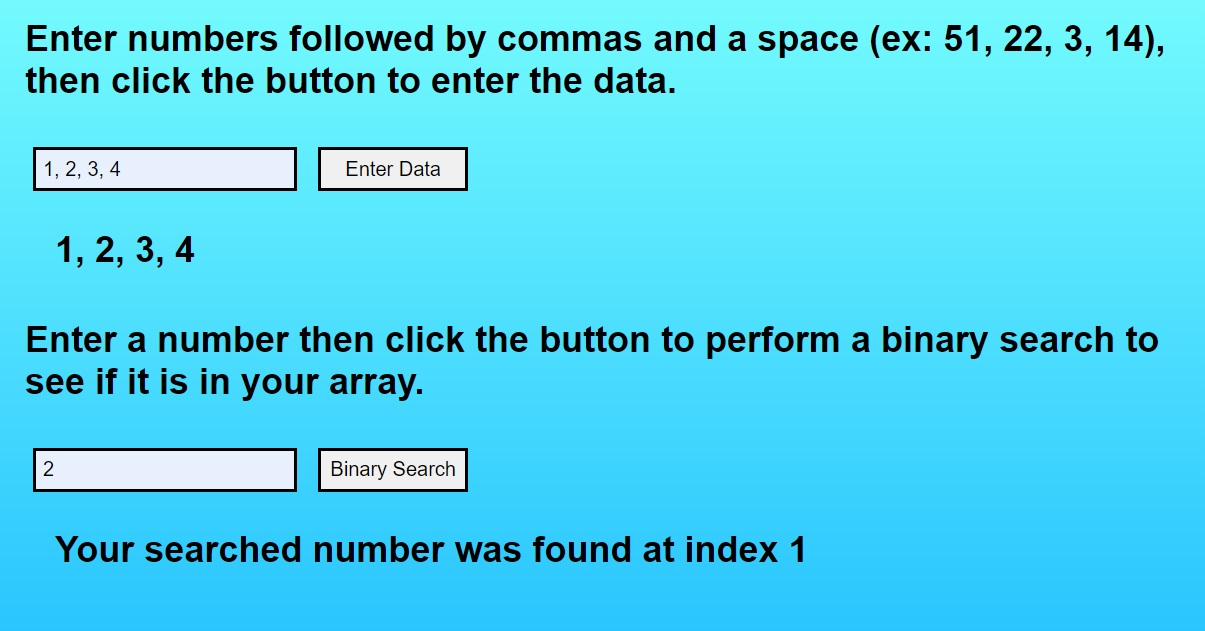
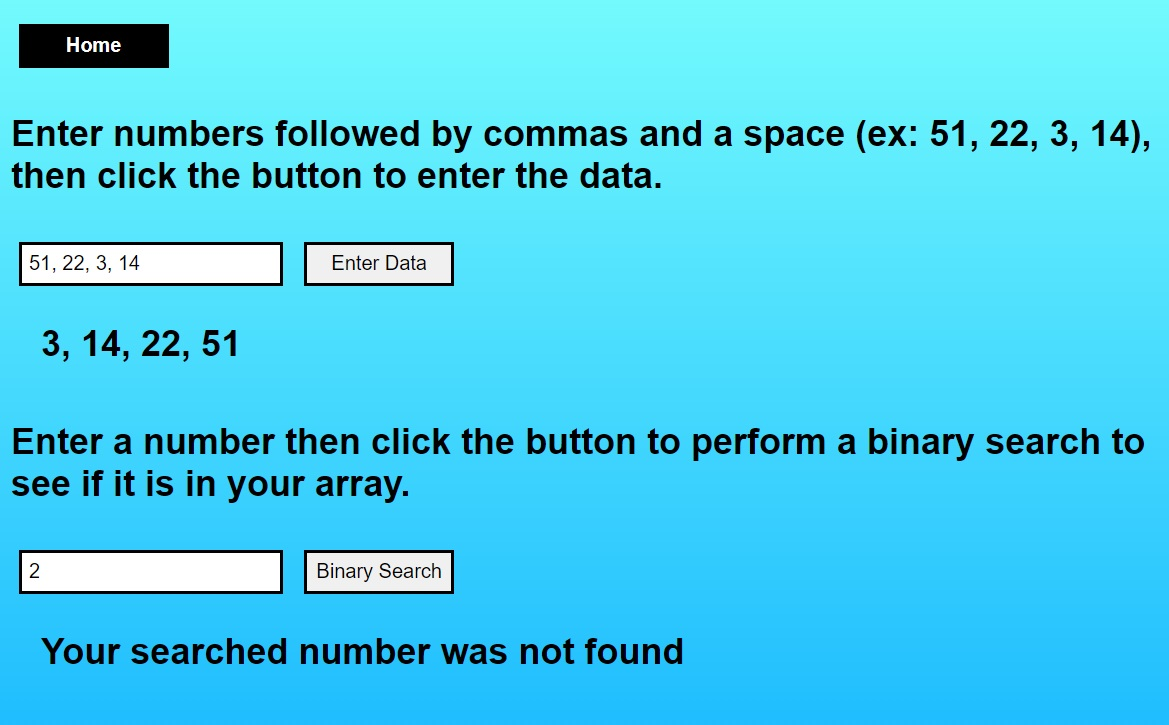
added home button to each sub-page and updated readme to reflect changes

Changed region(s): [[0.0, 0.4517, 0.9855, 0.9334], [0.0, 0.0301, 0.9855, 0.4216]]

diff --git a/sortingPractice/sortIndex.html b/sortingPractice/sortIndex.html
@@ -8,6 +8,8 @@
     <link rel="stylesheet" type="text/css" href="style.css">
 </head>
 <body>
+    <button id="homeButton"><a href="../index.html">Home</a></button>
+
     <h1>Enter numbers followed by commas and a space (ex: 51, 22, 3, 14), then click the button to sort the entered numbers.</h1>
     <input id="userBubbleData"></input>
 
@@ -19,7 +21,7 @@
     <button onclick="quickSort()" id="quickButton">Quick Sort</button>
     <h2 id="quickArray"></h2>
 
-    <h1>Enter word followed by commas and a space (ex: zebra, apple, computer, balloon), then click the button to sort the entered words alphabetically.</h1>
+    <h1>Enter words followed by commas and a space (ex: zebra, apple, computer, balloon), then click the button to sort the entered words alphabetically.</h1>
     <input id="userWordBubbleData"></input>
 
     <button onclick="wordBubbleSort()" id="wordBubbleButton">Word Bubble Sort</button>

diff --git a/index.html b/index.html
@@ -8,7 +8,7 @@
     <link rel="stylesheet" type="text/css" href="style.css">
 </head>
 <body>
-    <h1>Click on one of the practices below to see test out algorithms and then view the code on GitHub to see how it works.</h1>
+    <h1>Click on one of the practices below to test out algorithms and then view the code on GitHub to see how it works.</h1>
 
 <button><a href="./fibonacciSequence/fibIndex.html">Fibonacci Sequence</a></button>
 

diff --git a/fibonacciSequence/style.css b/fibonacciSequence/style.css
@@ -5,15 +5,22 @@
     font-family: Arial, Helvetica, sans-serif;
 }
 
-
 body {
     margin: 50px;
     background: linear-gradient(rgb(95, 255, 108), rgb(6, 159, 57), rgb(77, 201, 85));
     min-height: 100vh;
 }
 
+#homeButton, a {
+    text-decoration: none;
+    font-weight: bold;
+    background-color: black;
+    color: white;
+}
+
 h1 {
     font-size: 24px;
+    margin-top: 25px;
     margin-bottom: 25px;
 }
 

diff --git a/searchingPractice/searchIndex.html b/searchingPractice/searchIndex.html
@@ -8,6 +8,8 @@
     <link rel="stylesheet" type="text/css" href="style.css">
 </head>
 <body>
+    <button id="homeButton"><a href="../index.html">Home</a></button>
+    
     <h1>Enter numbers followed by commas and a space (ex: 51, 22, 3, 14), then click the button to enter the data.</h1>
     <input id="userBubbleData"></input>
 

diff --git a/fibonacciSequence/fibIndex.html b/fibonacciSequence/fibIndex.html
@@ -8,6 +8,8 @@
     <link rel="stylesheet" type="text/css" href="style.css">
 </head>
 <body>
+    <button id="homeButton"><a href="../index.html">Home</a></button>
+    
     <h1>Enter a number and click the button to display the Fibonacci sequence values up to that number.</h1>
     <input id="userInput"></input>
 

diff --git a/searchingPractice/style.css b/searchingPractice/style.css
@@ -12,8 +12,16 @@ body {
     min-height: 100vh;
 }
 
+#homeButton, a {
+    text-decoration: none;
+    font-weight: bold;
+    background-color: black;
+    color: white;
+}
+
 h1 {
     font-size: 24px;
+    margin-top: 25px;
     margin-bottom: 25px;
 }
 

diff --git a/sortingPractice/style.css b/sortingPractice/style.css
@@ -12,8 +12,16 @@ body {
     min-height: 100vh;
 }
 
+#homeButton, a {
+    text-decoration: none;
+    font-weight: bold;
+    background-color: black;
+    color: white;
+}
+
 h1 {
     font-size: 24px;
+    margin-top: 25px;
     margin-bottom: 25px;
 }
 

diff --git a/README.md b/README.md
@@ -15,6 +15,7 @@ The information for how to use the front-end actions are detailed on the individ
 <br><img src="assets/fibscreenshot.jpg" style="width:300px; height auto;">
 <br><img src="assets/sortscreenshot.jpg" style="width:300px; height auto;">
 <br><img src="assets/searchscreenshot.jpg" style="width:300px; height auto;">
+<br><img src="assets/searchscreenshot2.jpg" style="width:300px; height auto;">
 
 To see the code making it work you can open the script.js files in each of the folders for the different algorithms.
 
